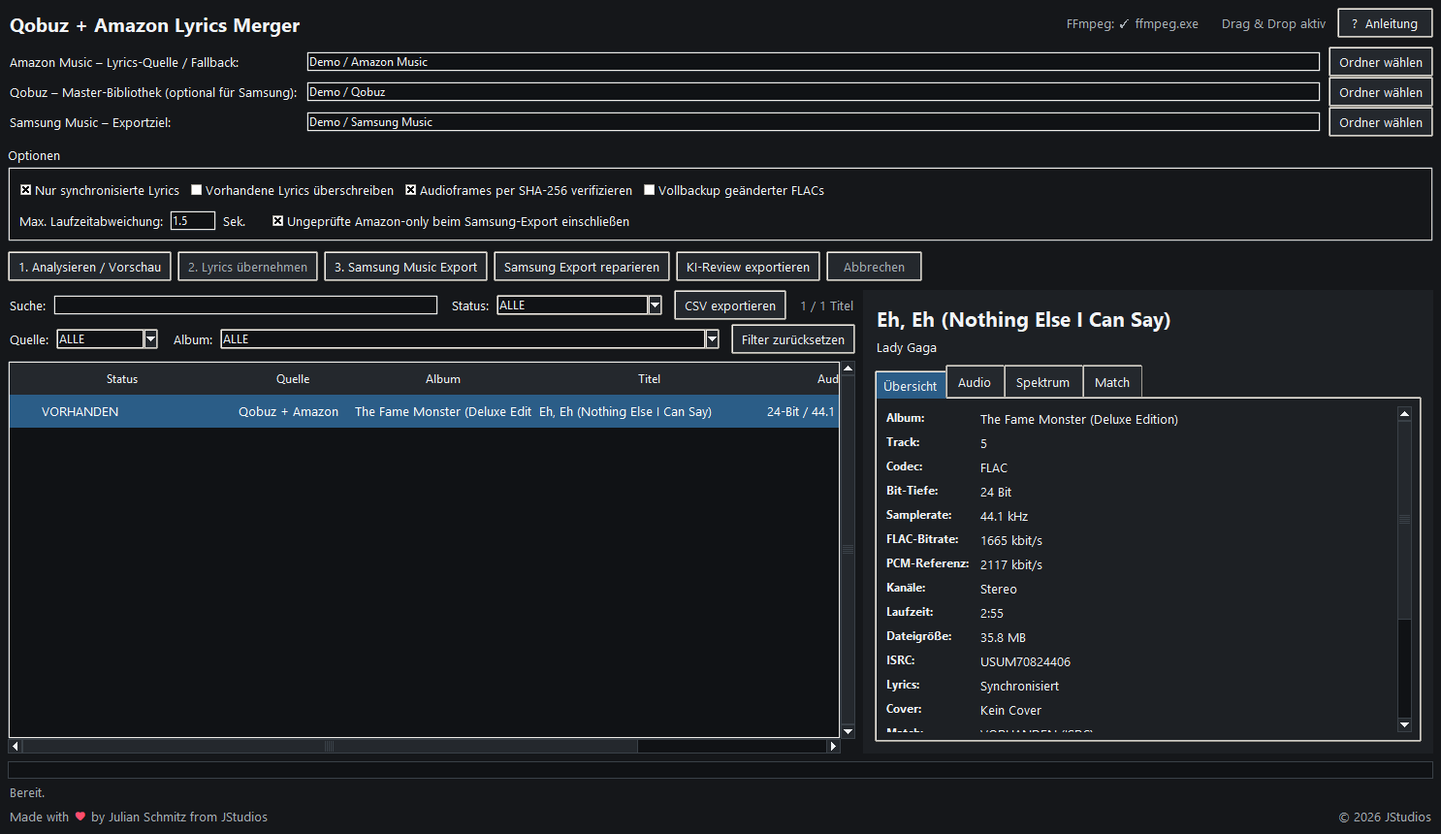
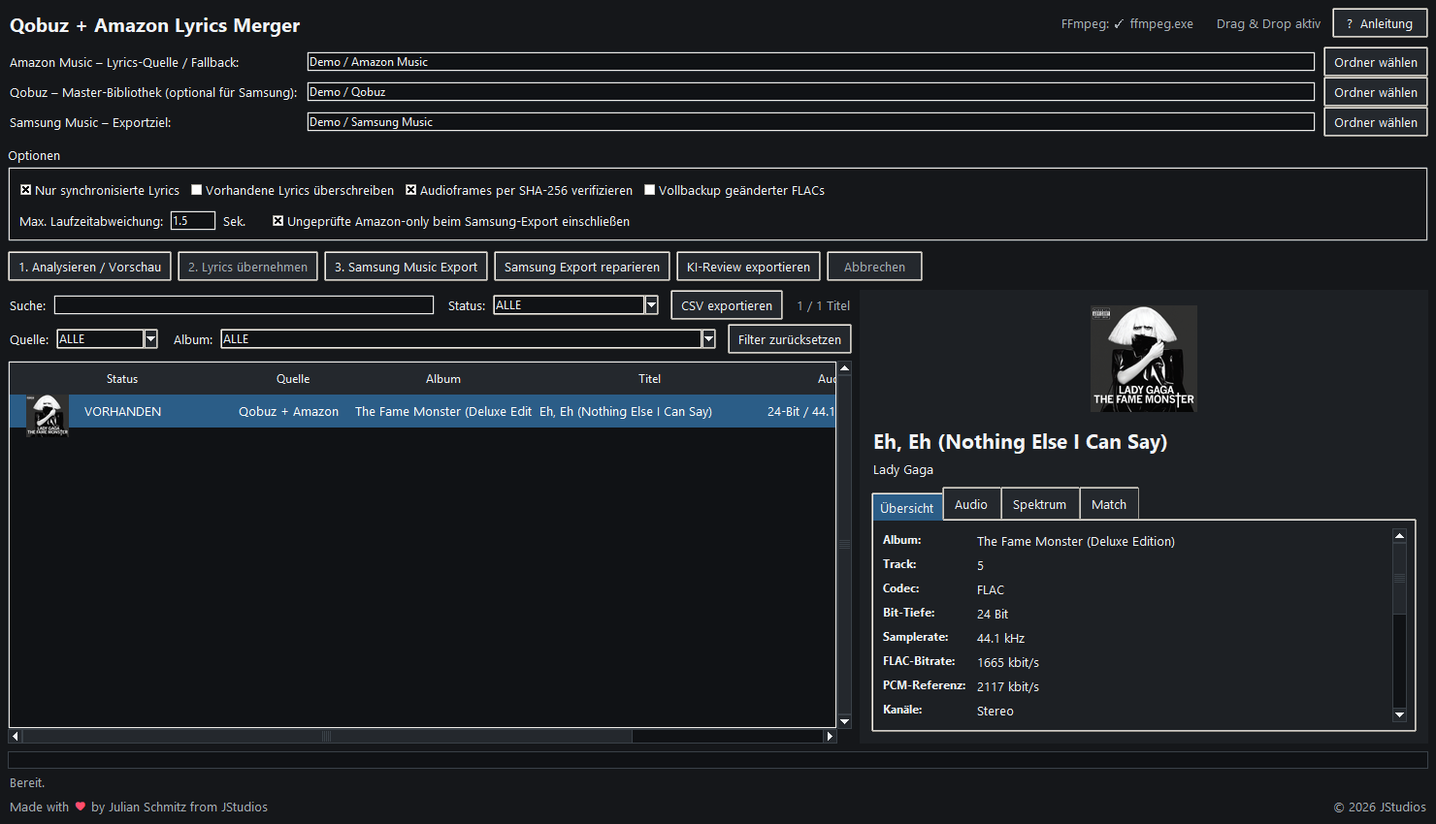
Improve Lyrics Merge previews with full spectrogram and cover

diff --git a/site/projects/lyrics-merge/index.html b/site/projects/lyrics-merge/index.html
@@ -1,4 +1,4 @@
-<!doctype html><html lang="de"><head><meta charset="utf-8"><meta name="viewport" content="width=device-width, initial-scale=1"><title>Lyrics Merge | JStudios</title><link rel="stylesheet" href="/styles.css"><link rel="stylesheet" href="/assets/brand.css?v=3"><link rel="stylesheet" href="/assets/portfolio.css?v=1.1.0"><script src="/assets/motion.js?v=1.1.0" defer></script><meta name="description" content="Abgleich lokaler FLAC-Dateien, Übertragung vorhandener Liedtext-Tags, Audioanalyse und Samsung-Export."><link rel="icon" href="/assets/favicon.svg" type="image/svg+xml"></head><body><a class="skip" href="#main">Zum Inhalt</a><header class="shell top"><a class="wordmark" href="/" aria-label="JStudios Startseite"><svg data-key-times="1200,1400" data-cursor-offsets="-510,-282,0" data-start-delay="0" xmlns="http://www.w3.org/2000/svg" class="brand-svg brand-js typing" viewBox="185 475 920 315" role="img" aria-label="JStudios" fill="currentColor" fill-rule="evenodd"><path class="glyph glyph-0" d="M204 493 L279 493 L383 618 L273 761 L200 760 L311 618 Z"/><path class="glyph glyph-1" d="M474 493 L647 493 L590 726 L543 770 L409 770 L377 707 L526 707 L565 546 L460 546 Z"/><path class="glyph glyph-2" d="M731 493 L930 493 L908 546 L747 546 L732 598 L872 598 L900 631 L873 728 L823 770 L625 770 L649 711 L809 711 L825 653 L688 653 L658 617 L680 537 Z"/><path class="brand-cursor" d="M916 714 L1085 714 L1072 769 L900 769 Z"/></svg></a><nav aria-label="Hauptnavigation"><a href="/#projekte">Projekte</a><a href="/#studio">Studio</a><a href="https://github.com/julianschmitz19-wq">GitHub</a><a class="nav-accent" href="/skolary/">Skolary <span aria-hidden="true">↗</span></a></nav></header><main id="main" class="shell"><section class="hero product-hero portfolio-hero"><div class="eyebrow"><span class="dot"></span> JStudios / Projekt</div><h1 aria-label="Lyrics Merge by JStudios"><span class="portfolio-heading" data-animation-group="lyrics-merge" data-trigger="hero"><svg xmlns="http://www.w3.org/2000/svg" class="brand-svg portfolio-mark mark-wide typing" data-key-times="1200,1300,1400,1500,1600,1700,1800,1900,2000,2100,2200" data-cursor-offsets="-747.04,-687.9,-606.09,-550.09,-515.88,-460.04,-356.04,-260.88,-196.05,-139.42,-64.9,0.0" data-cursor-y="0,0,0,0,0,0,0,0,0,0,0,0" data-start-delay="0" data-trigger="hero" viewBox="-8 -8 1667 122" preserveAspectRatio="xMinYMin meet" aria-hidden="true" fill="currentColor" fill-rule="evenodd"><path class="glyph glyph-0" d="M29 14 L10 14 L37 49 L0 85 L20 85 L60 49 Z" transform="translate(0.0 0)"/><path class="glyph glyph-1" d="M27.52 0 L45.52 0 L23.44 69 L64.44 69 L59 86 L0 86 Z" transform="translate(54.16 0)"/><path class="glyph glyph-2" d="M91 24 L73 24 L59 65 L53 69 L35 69 L31 64 L44 24 L25 24 L11 70 L22 83 L52 83 L50 90 L45 95 L5 95 L0 109 L50 109 L68 94 Z" transform="translate(113.3 0)"/><path class="glyph glyph-3" d="M70 24 L49 24 L37 30 L39 24 L20 24 L0 86 L19 86 L32 46 L42 39 L65 39 Z" transform="translate(195.11 0)"/><path class="glyph glyph-4" d="M39 24 L20 24 L0 86 L19 86 Z M28 0 L24 14 L42 14 L47 0 Z" transform="translate(251.11 0)"/><path class="glyph glyph-5" d="M28.68 24 L69.68 24 L64.88 39 L31.88 39 L27.92 42 L19.6 68 L21.64 71 L54.64 71 L49.84 86 L8.84 86 L0 73 L11.52 37 Z" transform="translate(285.32 0)"/><path class="glyph glyph-6" d="M81 24 L31 24 L16 36 L12 50 L23 62 L50 62 L52 65 L50 69 L47 72 L5 72 L0 86 L52 86 L68 72 L71 60 L62 48 L34 48 L31 45 L32 42 L36 38 L76 38 Z" transform="translate(341.16 0)"/><path class="glyph glyph-7" d="M27.52 0 L46.52 0 L57.28 32 L88.52 0 L107.52 0 L80 86 L62 86 L80.24 29 L48.32 60 L36.24 29 L18 86 L0 86 Z" transform="translate(445.16 0)"/><path class="glyph glyph-8" d="M28.68 24 L62.68 24 L71.52 37 L63.84 61 L21.84 61 L19.6 68 L21.64 71 L58.64 71 L53.84 86 L8.84 86 L0 73 L11.52 37 Z M32.2 38 L50.2 38 L52.92 42 L51.32 47 L26.32 47 L28.24 41 Z" transform="translate(540.32 0)"/><path class="glyph glyph-9" d="M70 24 L49 24 L37 30 L39 24 L20 24 L0 86 L19 86 L32 46 L42 39 L65 39 Z" transform="translate(605.15 0)"/><path class="glyph glyph-10" d="M32.2 24 L79.2 24 L56.48 95 L38 109 L0 109 L4.8 94 L34.8 94 L40.08 90 L42.64 82 L13.64 82 L4.8 69 L15.04 37 Z M35.4 39 L56.4 39 L47.44 67 L26.44 67 L24.4 64 L31.44 42 Z" transform="translate(661.78 0)"/><path class="glyph glyph-11" d="M28.68 24 L62.68 24 L71.52 37 L63.84 61 L21.84 61 L19.6 68 L21.64 71 L58.64 71 L53.84 86 L8.84 86 L0 73 L11.52 37 Z M32.2 38 L50.2 38 L52.92 42 L51.32 47 L26.32 47 L28.24 41 Z" transform="translate(736.3 0)"/><g transform="translate(801.2 0)"><path class="brand-cursor" d="M0 86 L66 86 L71 70 L5 70 Z"/></g></svg><svg xmlns="http://www.w3.org/2000/svg" class="brand-svg portfolio-mark mark-compact typing" data-key-times="1200,1300,1400,1500,1600,1700,1800,1900,2000,2100,2200" data-cursor-offsets="-747.04,-687.9,-606.09,-550.09,-515.88,-460.04,-356.04,-260.88,-196.05,-139.42,-64.9,0.0" data-cursor-y="0,0,0,0,0,0,0,0,0,0,0,0" data-start-delay="0" data-trigger="hero" viewBox="-8 -8 1055 122" preserveAspectRatio="xMinYMin meet" aria-hidden="true" fill="currentColor" fill-rule="evenodd"><path class="glyph glyph-0" d="M29 14 L10 14 L37 49 L0 85 L20 85 L60 49 Z" transform="translate(0.0 0)"/><path class="glyph glyph-1" d="M27.52 0 L45.52 0 L23.44 69 L64.44 69 L59 86 L0 86 Z" transform="translate(54.16 0)"/><path class="glyph glyph-2" d="M91 24 L73 24 L59 65 L53 69 L35 69 L31 64 L44 24 L25 24 L11 70 L22 83 L52 83 L50 90 L45 95 L5 95 L0 109 L50 109 L68 94 Z" transform="translate(113.3 0)"/><path class="glyph glyph-3" d="M70 24 L49 24 L37 30 L39 24 L20 24 L0 86 L19 86 L32 46 L42 39 L65 39 Z" transform="translate(195.11 0)"/><path class="glyph glyph-4" d="M39 24 L20 24 L0 86 L19 86 Z M28 0 L24 14 L42 14 L47 0 Z" transform="translate(251.11 0)"/><path class="glyph glyph-5" d="M28.68 24 L69.68 24 L64.88 39 L31.88 39 L27.92 42 L19.6 68 L21.64 71 L54.64 71 L49.84 86 L8.84 86 L0 73 L11.52 37 Z" transform="translate(285.32 0)"/><path class="glyph glyph-6" d="M81 24 L31 24 L16 36 L12 50 L23 62 L50 62 L52 65 L50 69 L47 72 L5 72 L0 86 L52 86 L68 72 L71 60 L62 48 L34 48 L31 45 L32 42 L36 38 L76 38 Z" transform="translate(341.16 0)"/><path class="glyph glyph-7" d="M27.52 0 L46.52 0 L57.28 32 L88.52 0 L107.52 0 L80 86 L62 86 L80.24 29 L48.32 60 L36.24 29 L18 86 L0 86 Z" transform="translate(445.16 0)"/><path class="glyph glyph-8" d="M28.68 24 L62.68 24 L71.52 37 L63.84 61 L21.84 61 L19.6 68 L21.64 71 L58.64 71 L53.84 86 L8.84 86 L0 73 L11.52 37 Z M32.2 38 L50.2 38 L52.92 42 L51.32 47 L26.32 47 L28.24 41 Z" transform="translate(540.32 0)"/><path class="glyph glyph-9" d="M70 24 L49 24 L37 30 L39 24 L20 24 L0 86 L19 86 L32 46 L42 39 L65 39 Z" transform="translate(605.15 0)"/><path class="glyph glyph-10" d="M32.2 24 L79.2 24 L56.48 95 L38 109 L0 109 L4.8 94 L34.8 94 L40.08 90 L42.64 82 L13.64 82 L4.8 69 L15.04 37 Z M35.4 39 L56.4 39 L47.44 67 L26.44 67 L24.4 64 L31.44 42 Z" transform="translate(661.78 0)"/><path class="glyph glyph-11" d="M28.68 24 L62.68 24 L71.52 37 L63.84 61 L21.84 61 L19.6 68 L21.64 71 L58.64 71 L53.84 86 L8.84 86 L0 73 L11.52 37 Z M32.2 38 L50.2 38 L52.92 42 L51.32 47 L26.32 47 L28.24 41 Z" transform="translate(736.3 0)"/><g transform="translate(801.2 0)"><path class="brand-cursor" d="M0 86 L66 86 L71 70 L5 70 Z"/></g></svg><span class="portfolio-credit">by JStudios</span></span></h1><p class="lead">Qobuz als Master behalten, synchronisierte Lyrics aus vorhandenen Amazon-FLACs übernehmen und eine eigenständige Bibliothek für Samsung Music exportieren – ohne die Audiodaten neu zu encodieren.</p><div class="tags"><span>Tkinter</span><span>Mutagen</span><span>FFmpeg</span><span>FLAC</span><span>LRC</span></div><p class="muted">Open Source · MIT License · Version 2.8.1 Final</p><div class="project-actions"><a class="button" href="https://github.com/julianschmitz19-wq/lyrics-merge">Quellcode auf GitHub <span aria-hidden="true">↗</span></a><a class="button subtle" href="https://github.com/julianschmitz19-wq/lyrics-merge#readme">Installation &amp; Dokumentation</a></div></section><section class="section"><div class="section-head"><div><p class="eyebrow">01 / FUNKTIONEN</p><h2>Eine Bibliothek. Zwei Quellen.</h2></div></div><div class="features"><article><span>01</span><h3>Track-Abgleich</h3><p>ISRC als Primärschlüssel, exakter Titel und Interpret als Fallback. Album und Tracknummer unterstützen die Variantendiagnose.</p></article><article><span>02</span><h3>Metadatenpflege</h3><p>Vorhandene synchronisierte Lyrics aus passenden FLACs übernehmen. Unklare Varianten und Zeitabweichungen bleiben zur manuellen Prüfung offen.</p></article><article><span>03</span><h3>Audioanalyse</h3><p>Mit FFmpeg Pegel, LUFS, True Peak, RMS und Clipping-Kennzahlen analysieren; Waveform, Frequenzspektrum und Spektrogramm anzeigen.</p></article></div></section><section class="section"><div class="section-head"><div><p class="eyebrow">02 / ENTSTEHUNG</p><h2>Aus meiner eigenen Musikbibliothek entstanden.</h2></div></div><div class="notice lyrics-origin"><p>Ich wollte meine lokalen FLAC-Downloads aus zwei Quellen zusammenführen: Die Qobuz-Dateien sollten als hochwertige Master erhalten bleiben, während ich die vorhandenen synchronisierten Lyrics meiner Amazon-Dateien nutzen wollte. Ziel war eine eigenständige Bibliothek für Samsung Music, einschließlich passender LRC-Dateien. Daraus entstand Lyrics Merge – mit einem kontrollierten Matching- und Export-Workflow statt manueller Bearbeitung jedes einzelnen Titels.</p></div></section>
+<!doctype html><html lang="de"><head><meta charset="utf-8"><meta name="viewport" content="width=device-width, initial-scale=1"><title>Lyrics Merge | JStudios</title><link rel="stylesheet" href="/styles.css"><link rel="stylesheet" href="/assets/brand.css?v=3"><link rel="stylesheet" href="/assets/portfolio.css?v=1.1.0"><script src="/assets/motion.js?v=1.1.0" defer></script><meta name="description" content="Abgleich lokaler FLAC-Dateien, Übertragung vorhandener Liedtext-Tags, Audioanalyse und Samsung-Export."><link rel="icon" href="/assets/favicon.svg" type="image/svg+xml"></head><body><a class="skip" href="#main">Zum Inhalt</a><header class="shell top"><a class="wordmark" href="/" aria-label="JStudios Startseite"><svg data-key-times="1200,1400" data-cursor-offsets="-510,-282,0" data-start-delay="0" xmlns="http://www.w3.org/2000/svg" class="brand-svg brand-js typing" viewBox="185 475 920 315" role="img" aria-label="JStudios" fill="currentColor" fill-rule="evenodd"><path class="glyph glyph-0" d="M204 493 L279 493 L383 618 L273 761 L200 760 L311 618 Z"/><path class="glyph glyph-1" d="M474 493 L647 493 L590 726 L543 770 L409 770 L377 707 L526 707 L565 546 L460 546 Z"/><path class="glyph glyph-2" d="M731 493 L930 493 L908 546 L747 546 L732 598 L872 598 L900 631 L873 728 L823 770 L625 770 L649 711 L809 711 L825 653 L688 653 L658 617 L680 537 Z"/><path class="brand-cursor" d="M916 714 L1085 714 L1072 769 L900 769 Z"/></svg></a><nav aria-label="Hauptnavigation"><a href="/#projekte">Projekte</a><a href="/#studio">Studio</a><a href="https://github.com/julianschmitz19-wq">GitHub</a><a class="nav-accent" href="/skolary/">Skolary <span aria-hidden="true">↗</span></a></nav></header><main id="main" class="shell"><section class="hero product-hero portfolio-hero"><div class="eyebrow"><span class="dot"></span> JStudios / Projekt</div><h1 aria-label="Lyrics Merge by JStudios"><span class="portfolio-heading" data-animation-group="lyrics-merge" data-trigger="hero"><svg xmlns="http://www.w3.org/2000/svg" class="brand-svg portfolio-mark mark-wide typing" data-key-times="1200,1300,1400,1500,1600,1700,1800,1900,2000,2100,2200" data-cursor-offsets="-747.04,-687.9,-606.09,-550.09,-515.88,-460.04,-356.04,-260.88,-196.05,-139.42,-64.9,0.0" data-cursor-y="0,0,0,0,0,0,0,0,0,0,0,0" data-start-delay="0" data-trigger="hero" viewBox="-8 -8 1667 122" preserveAspectRatio="xMinYMin meet" aria-hidden="true" fill="currentColor" fill-rule="evenodd"><path class="glyph glyph-0" d="M29 14 L10 14 L37 49 L0 85 L20 85 L60 49 Z" transform="translate(0.0 0)"/><path class="glyph glyph-1" d="M27.52 0 L45.52 0 L23.44 69 L64.44 69 L59 86 L0 86 Z" transform="translate(54.16 0)"/><path class="glyph glyph-2" d="M91 24 L73 24 L59 65 L53 69 L35 69 L31 64 L44 24 L25 24 L11 70 L22 83 L52 83 L50 90 L45 95 L5 95 L0 109 L50 109 L68 94 Z" transform="translate(113.3 0)"/><path class="glyph glyph-3" d="M70 24 L49 24 L37 30 L39 24 L20 24 L0 86 L19 86 L32 46 L42 39 L65 39 Z" transform="translate(195.11 0)"/><path class="glyph glyph-4" d="M39 24 L20 24 L0 86 L19 86 Z M28 0 L24 14 L42 14 L47 0 Z" transform="translate(251.11 0)"/><path class="glyph glyph-5" d="M28.68 24 L69.68 24 L64.88 39 L31.88 39 L27.92 42 L19.6 68 L21.64 71 L54.64 71 L49.84 86 L8.84 86 L0 73 L11.52 37 Z" transform="translate(285.32 0)"/><path class="glyph glyph-6" d="M81 24 L31 24 L16 36 L12 50 L23 62 L50 62 L52 65 L50 69 L47 72 L5 72 L0 86 L52 86 L68 72 L71 60 L62 48 L34 48 L31 45 L32 42 L36 38 L76 38 Z" transform="translate(341.16 0)"/><path class="glyph glyph-7" d="M27.52 0 L46.52 0 L57.28 32 L88.52 0 L107.52 0 L80 86 L62 86 L80.24 29 L48.32 60 L36.24 29 L18 86 L0 86 Z" transform="translate(445.16 0)"/><path class="glyph glyph-8" d="M28.68 24 L62.68 24 L71.52 37 L63.84 61 L21.84 61 L19.6 68 L21.64 71 L58.64 71 L53.84 86 L8.84 86 L0 73 L11.52 37 Z M32.2 38 L50.2 38 L52.92 42 L51.32 47 L26.32 47 L28.24 41 Z" transform="translate(540.32 0)"/><path class="glyph glyph-9" d="M70 24 L49 24 L37 30 L39 24 L20 24 L0 86 L19 86 L32 46 L42 39 L65 39 Z" transform="translate(605.15 0)"/><path class="glyph glyph-10" d="M32.2 24 L79.2 24 L56.48 95 L38 109 L0 109 L4.8 94 L34.8 94 L40.08 90 L42.64 82 L13.64 82 L4.8 69 L15.04 37 Z M35.4 39 L56.4 39 L47.44 67 L26.44 67 L24.4 64 L31.44 42 Z" transform="translate(661.78 0)"/><path class="glyph glyph-11" d="M28.68 24 L62.68 24 L71.52 37 L63.84 61 L21.84 61 L19.6 68 L21.64 71 L58.64 71 L53.84 86 L8.84 86 L0 73 L11.52 37 Z M32.2 38 L50.2 38 L52.92 42 L51.32 47 L26.32 47 L28.24 41 Z" transform="translate(736.3 0)"/><g transform="translate(801.2 0)"><path class="brand-cursor" d="M0 86 L66 86 L71 70 L5 70 Z"/></g></svg><svg xmlns="http://www.w3.org/2000/svg" class="brand-svg portfolio-mark mark-compact typing" data-key-times="1200,1300,1400,1500,1600,1700,1800,1900,2000,2100,2200" data-cursor-offsets="-747.04,-687.9,-606.09,-550.09,-515.88,-460.04,-356.04,-260.88,-196.05,-139.42,-64.9,0.0" data-cursor-y="0,0,0,0,0,0,0,0,0,0,0,0" data-start-delay="0" data-trigger="hero" viewBox="-8 -8 1055 122" preserveAspectRatio="xMinYMin meet" aria-hidden="true" fill="currentColor" fill-rule="evenodd"><path class="glyph glyph-0" d="M29 14 L10 14 L37 49 L0 85 L20 85 L60 49 Z" transform="translate(0.0 0)"/><path class="glyph glyph-1" d="M27.52 0 L45.52 0 L23.44 69 L64.44 69 L59 86 L0 86 Z" transform="translate(54.16 0)"/><path class="glyph glyph-2" d="M91 24 L73 24 L59 65 L53 69 L35 69 L31 64 L44 24 L25 24 L11 70 L22 83 L52 83 L50 90 L45 95 L5 95 L0 109 L50 109 L68 94 Z" transform="translate(113.3 0)"/><path class="glyph glyph-3" d="M70 24 L49 24 L37 30 L39 24 L20 24 L0 86 L19 86 L32 46 L42 39 L65 39 Z" transform="translate(195.11 0)"/><path class="glyph glyph-4" d="M39 24 L20 24 L0 86 L19 86 Z M28 0 L24 14 L42 14 L47 0 Z" transform="translate(251.11 0)"/><path class="glyph glyph-5" d="M28.68 24 L69.68 24 L64.88 39 L31.88 39 L27.92 42 L19.6 68 L21.64 71 L54.64 71 L49.84 86 L8.84 86 L0 73 L11.52 37 Z" transform="translate(285.32 0)"/><path class="glyph glyph-6" d="M81 24 L31 24 L16 36 L12 50 L23 62 L50 62 L52 65 L50 69 L47 72 L5 72 L0 86 L52 86 L68 72 L71 60 L62 48 L34 48 L31 45 L32 42 L36 38 L76 38 Z" transform="translate(341.16 0)"/><path class="glyph glyph-7" d="M27.52 0 L46.52 0 L57.28 32 L88.52 0 L107.52 0 L80 86 L62 86 L80.24 29 L48.32 60 L36.24 29 L18 86 L0 86 Z" transform="translate(445.16 0)"/><path class="glyph glyph-8" d="M28.68 24 L62.68 24 L71.52 37 L63.84 61 L21.84 61 L19.6 68 L21.64 71 L58.64 71 L53.84 86 L8.84 86 L0 73 L11.52 37 Z M32.2 38 L50.2 38 L52.92 42 L51.32 47 L26.32 47 L28.24 41 Z" transform="translate(540.32 0)"/><path class="glyph glyph-9" d="M70 24 L49 24 L37 30 L39 24 L20 24 L0 86 L19 86 L32 46 L42 39 L65 39 Z" transform="translate(605.15 0)"/><path class="glyph glyph-10" d="M32.2 24 L79.2 24 L56.48 95 L38 109 L0 109 L4.8 94 L34.8 94 L40.08 90 L42.64 82 L13.64 82 L4.8 69 L15.04 37 Z M35.4 39 L56.4 39 L47.44 67 L26.44 67 L24.4 64 L31.44 42 Z" transform="translate(661.78 0)"/><path class="glyph glyph-11" d="M28.68 24 L62.68 24 L71.52 37 L63.84 61 L21.84 61 L19.6 68 L21.64 71 L58.64 71 L53.84 86 L8.84 86 L0 73 L11.52 37 Z M32.2 38 L50.2 38 L52.92 42 L51.32 47 L26.32 47 L28.24 41 Z" transform="translate(736.3 0)"/><g transform="translate(801.2 0)"><path class="brand-cursor" d="M0 86 L66 86 L71 70 L5 70 Z"/></g></svg><span class="portfolio-credit">by JStudios</span></span></h1><p class="lead">Qobuz als Master behalten, synchronisierte Lyrics aus vorhandenen Amazon-FLACs übernehmen und eine eigenständige Bibliothek für Samsung Music exportieren – ohne die Audiodaten neu zu encodieren.</p><div class="tags"><span>Tkinter</span><span>Mutagen</span><span>FFmpeg</span><span>FLAC</span><span>LRC</span></div><p class="muted">Open Source · MIT License · Version 2.8.1 Final</p><div class="project-actions"><a class="button" href="https://github.com/julianschmitz19-wq/lyrics-merge">Quellcode auf GitHub <span aria-hidden="true">↗</span></a><a class="button subtle" href="https://github.com/julianschmitz19-wq/lyrics-merge#readme">Installation &amp; Dokumentation</a></div></section><section class="section"><div class="section-head"><div><p class="eyebrow">01 / FUNKTIONEN</p><h2>Eine Bibliothek. Zwei Quellen.</h2></div></div><div class="features"><article><span>01</span><h3>Track-Abgleich</h3><p>ISRC als Primärschlüssel, exakter Titel und Interpret als Fallback. Album und Tracknummer unterstützen die Variantendiagnose.</p></article><article><span>02</span><h3>Metadatenpflege</h3><p>Vorhandene synchronisierte Lyrics aus passenden FLACs übernehmen. Unklare Varianten und Zeitabweichungen bleiben zur manuellen Prüfung offen.</p></article><article><span>03</span><h3>Audioanalyse</h3><p>Mit FFmpeg Pegel, LUFS, True Peak, RMS und Clipping-Kennzahlen analysieren; Waveform, Frequenzspektrum und Spektrogramm anzeigen.</p></article></div></section><section class="section"><div class="section-head"><div><p class="eyebrow">02 / ENTSTEHUNG</p><h2>Aus meiner eigenen Musikbibliothek entstanden.</h2></div></div><div class="notice lyrics-origin"><p>Aus meiner Lady-Gaga-Musikbibliothek entstand die Idee: Ich wollte meine lokalen FLAC-Downloads aus zwei Quellen zusammenführen: Die Qobuz-Dateien sollten als hochwertige Master erhalten bleiben, während ich die vorhandenen synchronisierten Lyrics meiner Amazon-Dateien nutzen wollte. Ziel war eine eigenständige Bibliothek für Samsung Music, einschließlich passender LRC-Dateien. Daraus entstand Lyrics Merge – mit einem kontrollierten Matching- und Export-Workflow statt manueller Bearbeitung jedes einzelnen Titels.</p></div></section>
 <section class="section"><div class="section-head"><div><p class="eyebrow">03 / WORKFLOW</p><h2>Analysieren. Prüfen. Übernehmen. Exportieren.</h2></div><p>Lokale Dateien als Grundlage – keine Downloads von Streamingdiensten.</p></div><div class="features lyrics-features"><article><span>01</span><h3>Bibliotheken einlesen</h3><p>Amazon und/oder Qobuz auswählen; FLAC-Metadaten und Lyrics-Verfügbarkeit erfassen.</p></article><article><span>02</span><h3>Zuordnung kontrollieren</h3><p>Sichere Matches, vorhandene Lyrics, fehlende Texte, Zeitprüfungen und Varianten unterscheiden. Entscheidungen speichern.</p></article><article><span>03</span><h3>Audioframes erhalten</h3><p>Lyrics-Tags gezielt schreiben, optional Vollbackup anlegen und komprimierte FLAC-Audioframes vor und nach dem Tag-Write per SHA-256 vergleichen.</p></article><article><span>04</span><h3>Samsung Music Export</h3><p>Qobuz bevorzugen, Amazon-only-Titel nach Auswahl berücksichtigen und separate LRC-Dateien für Samsung Music erzeugen. Export-Reparatur und Multi-Disc-Korrekturen sind integriert.</p></article><article><span>05</span><h3>Tiefenanalyse</h3><p>Technische Audioeigenschaften untersuchen. Die spektrale Lossless-Plausibilität ist eine Heuristik und kein Beweis der ursprünglichen Quelle.</p></article><article><span>06</span><h3>Review dokumentieren</h3><p>Filter, CSV-Vorschau und ein optionales KI-Review-Paket als Markdown und JSON nutzen. Die externe Weitergabe liegt beim Nutzer.</p></article></div></section>
-<section class="section project-preview-section"><div class="section-head"><div><p class="eyebrow">04 / PREVIEW</p><h2>Ein konkreter Quellenvergleich.</h2></div><p>Lady Gaga – Eh, Eh (Nothing Else I Can Say). Lokale Dateien, nur lesend ausgewertet.</p></div><figure class="app-preview"><div class="app-preview-bar"><span>Lyrics Merge</span><span>Desktop · Layout-Entwicklungsstand</span></div><img src="/assets/previews/lyrics-merge-overview.png" alt="Lyrics Merge Gesamtübersicht mit einem ausgewählten Titel, Quellenordnern und Analyseoptionen" width="1486" height="860" loading="lazy"><figcaption>Echte Anwendungsansicht · Beispielpfade statt privater Verzeichnisse</figcaption></figure><div class="lyrics-preview-grid"><figure class="app-preview"><div class="app-preview-bar"><span>Match</span><span>ISRC</span></div><img src="/assets/previews/lyrics-merge-match.png" alt="Vergleich der Qobuz- und Amazon-Versionen mit ISRC-Match und Bit-Tiefe" width="588" height="478" loading="lazy"><figcaption>Vergleichsansicht · Detailausschnitt</figcaption></figure><figure class="app-preview"><div class="app-preview-bar"><span>Spektrum</span><span>FFmpeg · NumPy</span></div><img src="/assets/previews/lyrics-merge-spectrum.png" alt="Waveform und mittleres Frequenzspektrum des ausgewählten Titels" width="588" height="478" loading="lazy"><figcaption>Technische Analyse · Detailausschnitt</figcaption></figure></div><div class="notice lyrics-origin"><h3>Messwerte des gezeigten Beispiels</h3><div class="lyrics-table-wrap"><table class="lyrics-table"><thead><tr><th scope="col">Eigenschaft</th><th scope="col">Qobuz</th><th scope="col">Amazon</th></tr></thead><tbody><tr><th scope="row">Bit-Tiefe</th><td>24 Bit</td><td>16 Bit</td></tr><tr><th scope="row">Samplerate</th><td>44,1 kHz</td><td>44,1 kHz</td></tr><tr><th scope="row">FLAC-Audiobitrate</th><td>1.665 kbit/s</td><td>966 kbit/s</td></tr><tr><th scope="row">PCM-Referenz</th><td>2.117 kbit/s</td><td>1.411 kbit/s</td></tr></tbody></table></div><p>ISRC-Match, Laufzeitdifferenz 0,111 s. Qobuz enthält bereits Lyrics; in diesem Fall ist keine Übernahme nötig. Die gezeigten Werte gelten nur für diese beiden Dateien, nicht allgemein für die Anbieter. Höhere Bit-Tiefe allein beweist keine höhere wahrgenommene Klangqualität.</p></div></section>
-<section class="notice"><h3>Entwicklungsstand und verantwortungsvolle Nutzung</h3><p>Version 2.8.1 Final ist der öffentlich verfügbare Bestandsstand. Die Vorschauen zeigen eine separat getestete Layout-Überarbeitung für kleinere Fenster; sie ist noch nicht Teil des stabilen Hauptstands. FFmpeg wird separat installiert. Die Anwendung lädt keine Musik oder Liedtexte von den Diensten herunter. Nur eigene, rechtmäßig nutzbare Dateien bearbeiten, Schreibvorgänge vorher prüfen und Sicherungskopien anlegen. Musikdateien, Liedtexte, Albumcover, private Pfade und Cache-Dateien sind nicht Bestandteil des Repositorys. KI-Review-Exporte können Pfade und kurze Lyrics-Auszüge enthalten; vor externer Weitergabe prüfen. Keine offizielle Verbindung zu Qobuz, Amazon Music oder Samsung.</p></section></main><footer class="shell footer"><div><strong>JStudios</strong><p>Unabhängige Softwareentwicklung · seit 2026</p></div><div><a href="/skolary/">Skolary</a><a href="/impressum/">Impressum</a><a href="/datenschutz/">Datenschutz</a><a href="/">Startseite</a></div><button type="button" class="motion-control" aria-pressed="false" hidden>Animation stoppen</button><a href="mailto:jstudios.development@gmail.com">Kontakt</a><small>© 2026 JStudios</small></footer></body></html>
+<section class="section project-preview-section"><div class="section-head"><div><p class="eyebrow">04 / PREVIEW</p><h2>Ein konkreter Quellenvergleich.</h2></div><p>Lady Gaga – Eh, Eh (Nothing Else I Can Say). Lokale Dateien, nur lesend ausgewertet.</p></div><figure class="app-preview"><div class="app-preview-bar"><span>Lyrics Merge</span><span>Desktop · Layout-Entwicklungsstand</span></div><a href="/assets/previews/lyrics-merge-overview.png" aria-label="Vorschau in Originalgröße öffnen"><img src="/assets/previews/lyrics-merge-overview.png" alt="Lyrics Merge Gesamtübersicht mit einem ausgewählten Titel, Quellenordnern und Analyseoptionen" width="1480" height="850" loading="lazy"></a><figcaption>Echte Anwendungsansicht · Beispielpfade statt privater Verzeichnisse · Bild anklicken für Vollansicht</figcaption></figure><div class="lyrics-preview-grid"><figure class="app-preview"><div class="app-preview-bar"><span>Match</span><span>ISRC</span></div><a href="/assets/previews/lyrics-merge-match.png" aria-label="Vorschau in Originalgröße öffnen"><img src="/assets/previews/lyrics-merge-match.png" alt="Vergleich der Qobuz- und Amazon-Versionen mit ISRC-Match und Bit-Tiefe" width="1034" height="834" loading="lazy"></a><figcaption>Vergleichsansicht · vergrößertes Detail</figcaption></figure><figure class="app-preview"><div class="app-preview-bar"><span>Spektrum</span><span>FFmpeg · NumPy</span></div><a href="/assets/previews/lyrics-merge-spectrum.png" aria-label="Vorschau in Originalgröße öffnen"><img src="/assets/previews/lyrics-merge-spectrum.png" alt="Waveform, mittleres Frequenzspektrum und vollständiges Spektrogramm des ausgewählten Titels" width="1034" height="834" loading="lazy"></a><figcaption>Technische Analyse · alle drei Diagramme</figcaption></figure></div><div class="notice lyrics-origin"><h3>Messwerte des gezeigten Beispiels</h3><div class="lyrics-table-wrap"><table class="lyrics-table"><thead><tr><th scope="col">Eigenschaft</th><th scope="col">Qobuz</th><th scope="col">Amazon</th></tr></thead><tbody><tr><th scope="row">Bit-Tiefe</th><td>24 Bit</td><td>16 Bit</td></tr><tr><th scope="row">Samplerate</th><td>44,1 kHz</td><td>44,1 kHz</td></tr><tr><th scope="row">FLAC-Audiobitrate</th><td>1.665 kbit/s</td><td>966 kbit/s</td></tr><tr><th scope="row">PCM-Referenz</th><td>2.117 kbit/s</td><td>1.411 kbit/s</td></tr></tbody></table></div><p>ISRC-Match, Laufzeitdifferenz 0,111 s. Qobuz enthält bereits Lyrics; in diesem Fall ist keine Übernahme nötig. Die gezeigten Werte gelten nur für diese beiden Dateien, nicht allgemein für die Anbieter. Höhere Bit-Tiefe allein beweist keine höhere wahrgenommene Klangqualität.</p></div></section>
+<section class="notice"><h3>Entwicklungsstand und verantwortungsvolle Nutzung</h3><p>Version 2.8.1 Final ist der öffentlich verfügbare Bestandsstand. Die Vorschauen zeigen eine separat getestete Layout-Überarbeitung für kleinere Fenster; sie ist noch nicht Teil des stabilen Hauptstands. FFmpeg wird separat installiert. Die Anwendung lädt keine Musik oder Liedtexte von den Diensten herunter. Nur eigene, rechtmäßig nutzbare Dateien bearbeiten, Schreibvorgänge vorher prüfen und Sicherungskopien anlegen. Musikdateien, Liedtexte, private Pfade und Cache-Dateien sind nicht Bestandteil des Repositorys. Das Albumcover von The Fame Monster ist ausschließlich als Teil der dokumentierten Anwendungsansicht abgebildet; Rechte daran verbleiben bei den jeweiligen Rechteinhabern und sind nicht von der MIT-Lizenz umfasst. KI-Review-Exporte können Pfade und kurze Lyrics-Auszüge enthalten; vor externer Weitergabe prüfen. Keine offizielle Verbindung zu Qobuz, Amazon Music oder Samsung.</p></section></main><footer class="shell footer"><div><strong>JStudios</strong><p>Unabhängige Softwareentwicklung · seit 2026</p></div><div><a href="/skolary/">Skolary</a><a href="/impressum/">Impressum</a><a href="/datenschutz/">Datenschutz</a><a href="/">Startseite</a></div><button type="button" class="motion-control" aria-pressed="false" hidden>Animation stoppen</button><a href="mailto:jstudios.development@gmail.com">Kontakt</a><small>© 2026 JStudios</small></footer></body></html>
